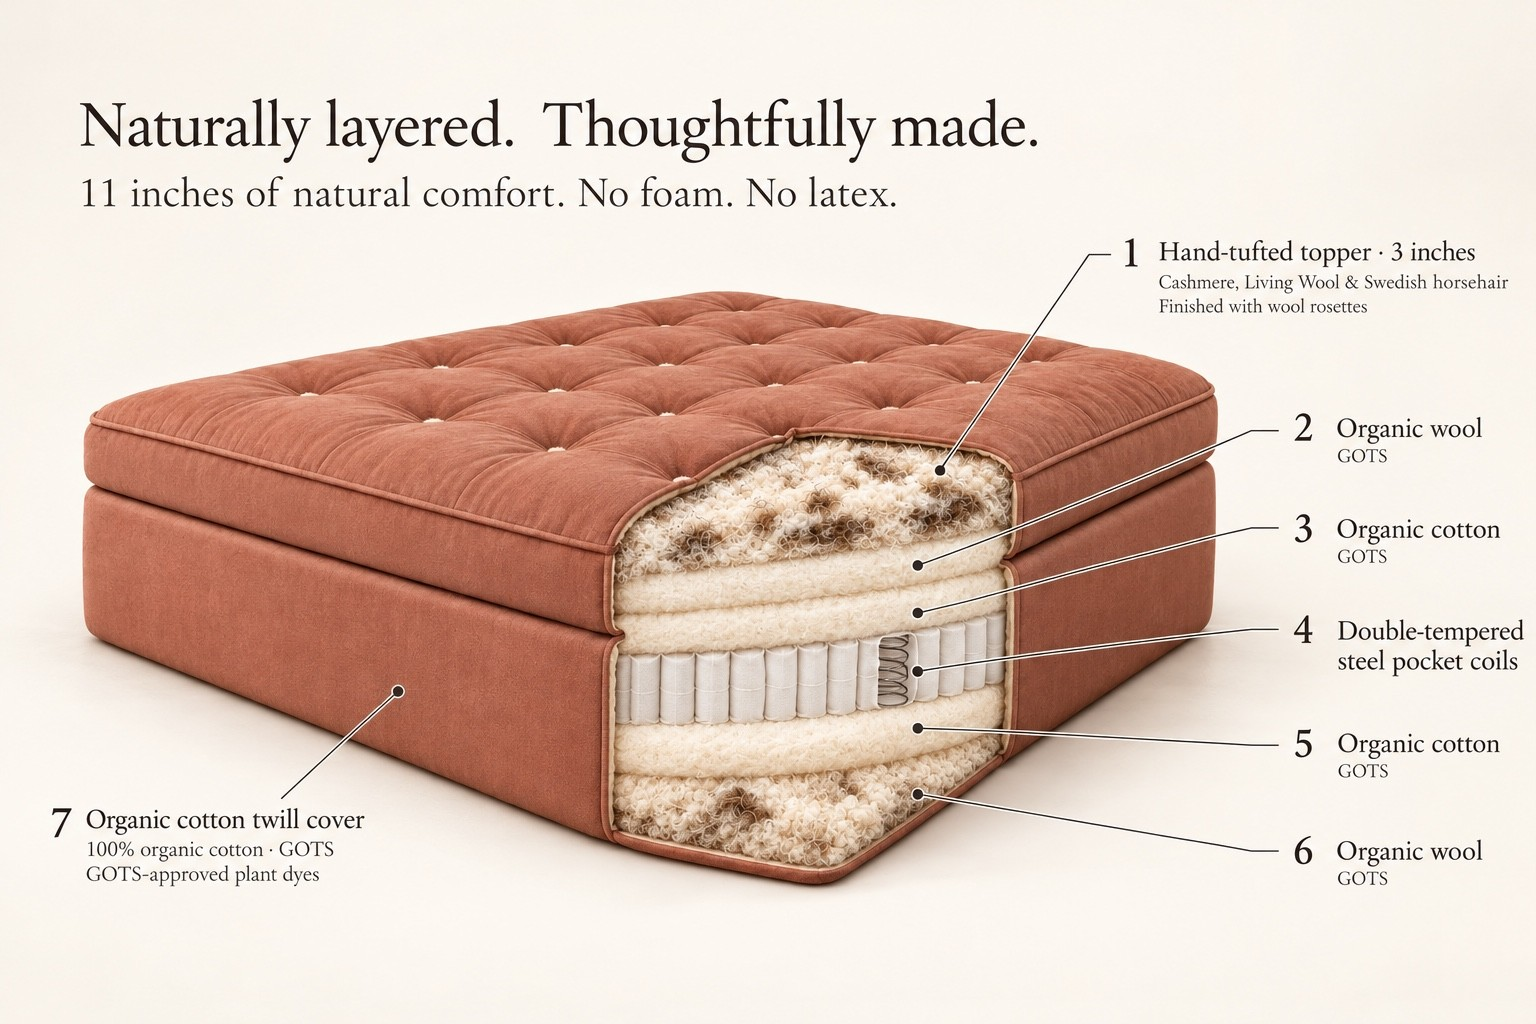
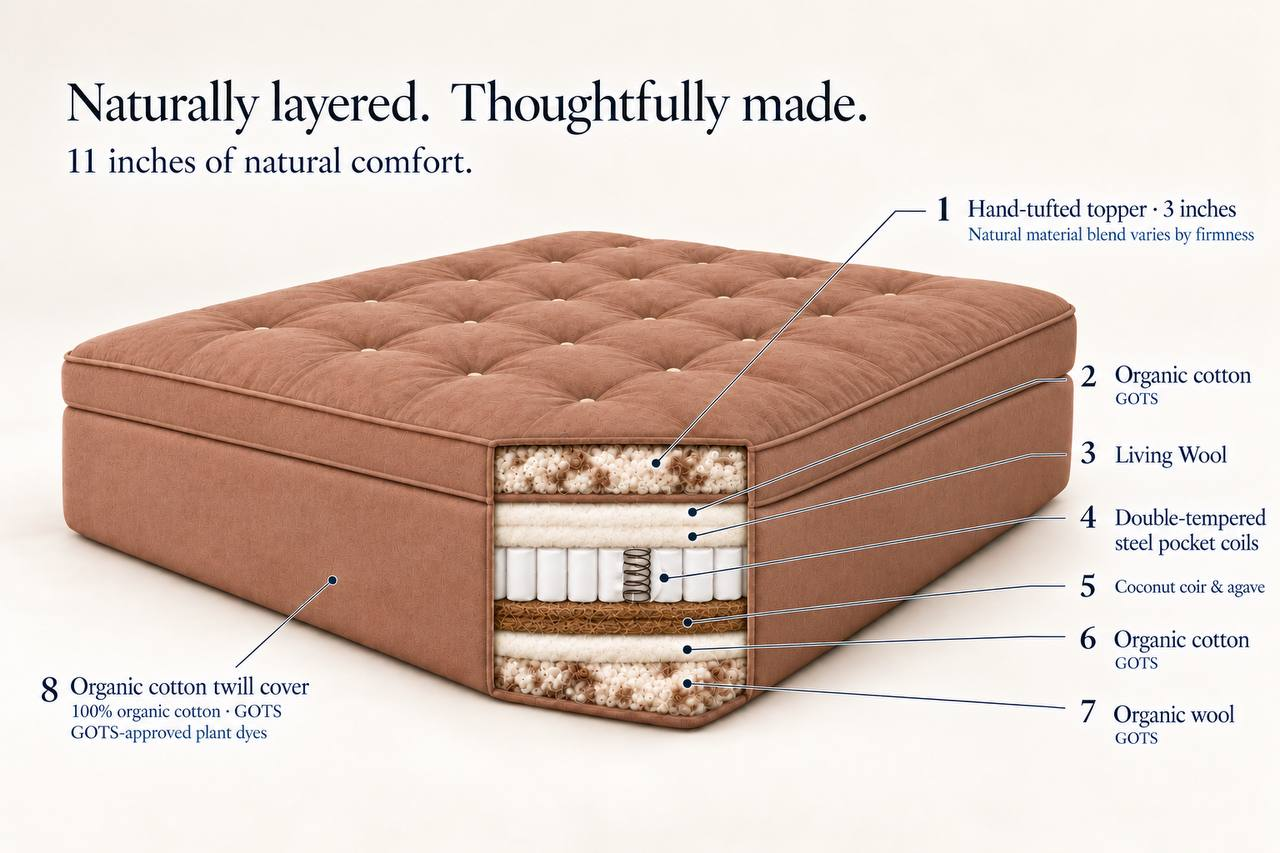
Mattress: coconut coir & agave base layer (layer list, materials entry, new stacked + Sorrel labelled cutaways, feed, assistant) (#128)

diff --git a/lib/mattress.ts b/lib/mattress.ts
@@ -12,7 +12,7 @@ export const GUARANTEE_PATH = "/pages/guarantee-warranty";
 
 export type MattressSize = { id: string; label: string; dims: string; price: number };
 /** photos: this color's own shots, first one leading the gallery (and shown on the home page feature); then its cutaway. */
-export type MattressColor = { id: string; label: string; swatch: PhotoKey; photos: PhotoKey[]; cutaway: PhotoKey; /** The cutaway with numbered layers and a legend, shown in the gallery. */ layers: PhotoKey; alt: string };
+export type MattressColor = { id: string; label: string; swatch: PhotoKey; photos: PhotoKey[]; cutaway: PhotoKey; /** The cutaway with numbered layers and a legend, shown in the gallery. */ layers?: PhotoKey; alt: string };
 
 export const MATTRESS = {
   id: "natural-mattress",
@@ -49,11 +49,11 @@ export const MATTRESS = {
    * change); labels are the current names. File names still use the old names (mocha, safari, dove, khaki, natural).
    */
   colors: [
-    { id: "natural", label: "Fleece", swatch: "mattress-swatch-natural", photos: ["mattress-room-fleece", "mattress-studio-natural"], cutaway: "mattress-cutaway-fleece", layers: "mattress-layers-fleece", alt: "The Ashbury in Fleece" },
-    { id: "dove", label: "Flint", swatch: "mattress-swatch-dove", photos: ["mattress-room-flint", "mattress-studio-dove"], cutaway: "mattress-cutaway-flint", layers: "mattress-layers-flint", alt: "The Ashbury in Flint" },
-    { id: "khaki", label: "Moss", swatch: "mattress-swatch-khaki", photos: ["mattress-room-moss", "mattress-studio-khaki"], cutaway: "mattress-cutaway-moss", layers: "mattress-layers-moss", alt: "The Ashbury in Moss" },
+    { id: "natural", label: "Fleece", swatch: "mattress-swatch-natural", photos: ["mattress-room-fleece", "mattress-studio-natural"], cutaway: "mattress-cutaway-fleece", alt: "The Ashbury in Fleece" },
+    { id: "dove", label: "Flint", swatch: "mattress-swatch-dove", photos: ["mattress-room-flint", "mattress-studio-dove"], cutaway: "mattress-cutaway-flint", alt: "The Ashbury in Flint" },
+    { id: "khaki", label: "Moss", swatch: "mattress-swatch-khaki", photos: ["mattress-room-moss", "mattress-studio-khaki"], cutaway: "mattress-cutaway-moss", alt: "The Ashbury in Moss" },
     // Was "Hazel" (and before that "Safari"); the brown Hazel photos are kept, unused.
-    { id: "safari", label: "Flax", swatch: "mattress-swatch-safari", photos: ["mattress-room-flax", "mattress-studio-safari", "mattress-safari-room"], cutaway: "mattress-cutaway-flax", layers: "mattress-layers-flax", alt: "The Ashbury in Flax" },
+    { id: "safari", label: "Flax", swatch: "mattress-swatch-safari", photos: ["mattress-room-flax", "mattress-studio-safari", "mattress-safari-room"], cutaway: "mattress-cutaway-flax", alt: "The Ashbury in Flax" },
     { id: "mocha", label: "Sorrel", swatch: "mattress-swatch-mocha", photos: ["mattress-room-sorrel", "mattress-studio-mocha", "mattress-mocha-room"], cutaway: "mattress-cutaway", layers: "mattress-layers-sorrel", alt: "The Ashbury in Sorrel" },
   ] satisfies MattressColor[],
   /** Color selected when the page opens (its first photo leads the gallery and the social preview). */

diff --git a/lib/materials.ts b/lib/materials.ts
@@ -139,18 +139,26 @@ export const ASHBURY_GROUPS: MaterialGroup[] = [
     materials: [
       {
         id: "organic-cotton", short: "Organic Cotton", name: "Organic cotton", descriptor: "Breathable at every layer.",
-        body: "Our cotton is GOTS-certified organic, grown without synthetic pesticides or fertilizers. Woven into a super soft 100% organic cotton twill and colored with GOTS-approved plant dyes, it covers the entire mattress. Inside, it wraps the pocket coils on both sides, keeping the layers quiet and letting the whole mattress breathe.",
-        where: "The cover, in five plant-dyed colors, and around the coils.",
+        body: "Our cotton is GOTS-certified organic, grown without synthetic pesticides or fertilizers. Woven into a super soft 100% organic cotton twill and colored with GOTS-approved plant dyes, it covers the entire mattress. Inside, it layers above and below the pocket coils, keeping the layers quiet and letting the whole mattress breathe.",
+        where: "The cover, in five plant-dyed colors, and in the layers above and below the coils.",
         origin: "GOTS-certified organic · OEKO-TEX Standard 100",
         photo: "materials-cotton-rosette",
         alt: "Cream cotton twill with a hand-tied wool rosette",
       },
       {
         id: "pocket-coils", short: "Pocket Coils", name: "Pocket coils", descriptor: "Support that moves with you.",
-        body: "At the center of the Ashbury, double-tempered steel pocket coils are each wrapped individually, so every coil responds on its own as you move. They're cushioned on both sides by organic cotton and organic wool, so you feel the support, never the steel.",
+        body: "At the center of the Ashbury, double-tempered steel pocket coils are each wrapped individually, so every coil responds on its own as you move. They sit beneath layers of organic cotton and Living Wool, and above a base of coconut coir and agave, so you feel the support, never the steel.",
         where: "The core of the 8\" mattress.",
         photo: "materials-pocket-coils",
         alt: "A bare steel coil and cotton-wrapped pocket coils on stone steps above a cutaway of the Ashbury",
+      },
+      {
+        id: "coir-agave", short: "Coir & Agave", name: "Coconut coir & agave", descriptor: "The base that holds you up.",
+        body: "Beneath the pocket coils sits a base of coconut coir and agave fiber, in every size and both feels. Coir, from the husk of the coconut, is firm, springy and breathable. Agave, from the leaves of a hardy desert plant that grows with very little water, is a tough, durable fiber that helps with temperature control and breathability. Together they give the Ashbury steady support from below, in place of foam.",
+        where: "The base layer, under the pocket coils.",
+        origin: "OEKO-TEX Standard 100",
+        photo: "fiber-agave",
+        alt: "Long, pale golden agave fiber on linen and travertine",
       },
     ],
   },

diff --git a/lib/assistant-knowledge.ts b/lib/assistant-knowledge.ts
@@ -57,7 +57,7 @@ ${M.sizes.map((s) => `- ${s.label}: ${s.dims}, ${fmt(s.price)}`).join("\n")}
 ${M.customSize}
 Feels (same price): Soft, a deeper, more cushioned top for side sleepers and anyone who likes to sink in. Firm, more supportive and even, for back and stomach sleepers. Both share the same materials and construction.
 Colors (same price): ${M.colors.map((c) => c.label).join(", ")}. The cover is super soft 100% organic cotton twill (GOTS) colored with GOTS-approved plant dyes.
-Construction. Topper (${M.topperHeight}): cashmere (OEKO-TEX Standard 100), Living Wool (GOTS, OEKO-TEX), Swedish horsehair (OEKO-TEX), hand-tufted with wool rosettes. Mattress (${M.mattressHeight}): organic wool, organic cotton, double-tempered steel pocket coils, organic cotton, organic wool. No foam, no latex, no chemical flame retardants and no glue. Single-sided.
+Construction. Topper (${M.topperHeight}): cashmere (OEKO-TEX Standard 100), Living Wool (GOTS, OEKO-TEX), Swedish horsehair (OEKO-TEX), hand-tufted with wool rosettes. Mattress (${M.mattressHeight}), top to bottom: organic cotton, Living Wool, double-tempered steel pocket coils, a base of coconut coir and agave (in every size and feel; agave helps with temperature control and breathability), organic cotton, organic wool. No foam, no latex, no chemical flame retardants and no glue. Single-sided.
 Certifications: GOTS-certified organic wool and cotton, made by a GOTS-certified manufacturer (${M.gotsManufacturer}). OEKO-TEX Standard 100. Meets US federal mattress flammability standards without chemical flame retardants; wool provides the natural barrier.
 Ordering: ${M.leadTime} ${M.shipping} White-glove delivery is available for an additional fee. Every mattress arrives wrapped in biodegradable paper. Pay in full at checkout, or over time with Shop Pay Installments (subject to approval).
 Foundation: needs a firm, flat base that lets it breathe: a solid platform, or slats no more than 3" apart. For Queen, King and Cal King, a base with a center support rail and legs. A rigid foundation (no springs) or an adjustable base also works. Avoid old box springs and placing it on the floor for long periods. A supportive base is a condition of the warranty.

diff --git a/components/mattress.tsx b/components/mattress.tsx
@@ -27,6 +27,7 @@ export function Accordion({ items }: { items: [string, React.ReactNode][] }) {
 // The topper holds the hand-tufted comfort layers; the cotton twill cover wraps the whole mattress.
 // Each layer links to its entry on Inside the Ashbury (lib/materials.ts ASHBURY_GROUPS, ids are the anchors).
 // The core's organic wool has no entry of its own, so it goes to the wool entry, Living Wool.
+// Coconut coir and agave form the supportive base under the coils, in every size and feel.
 const TOPPER: [string, string][] = [
   ["Cashmere (OEKO-TEX Standard 100)", "cashmere"],
   ["Living Wool (GOTS, OEKO-TEX)", "living-wool"],
@@ -34,9 +35,10 @@ const TOPPER: [string, string][] = [
   ["Hand-tufted with wool rosettes", "hand-tufting"],
 ];
 const CORE: [string, string][] = [
-  ["Organic wool (GOTS)", "living-wool"],
   ["Organic cotton (GOTS)", "organic-cotton"],
+  ["Living Wool (GOTS)", "living-wool"],
   ["Double-tempered steel pocket coils", "pocket-coils"],
+  ["Coconut coir & agave (OEKO-TEX Standard 100)", "coir-agave"],
   ["Organic cotton (GOTS)", "organic-cotton"],
   ["Organic wool (GOTS)", "living-wool"],
 ];
@@ -74,7 +76,7 @@ export function Construction() {
       <section className="sec">
         <div className="wrap proc">
           <div className="proc-v">
-            <Photo src="mattress-layers" label="The Ashbury's layers stacked: the tufted topper folded back over wool and horsehair, then wool, pocket coils, wool and the cotton twill base" sizes="(max-width: 960px) 100vw, 50vw" />
+            <Photo src="mattress-layers" label="The Ashbury's layers stacked: the tufted topper folded back over wool and horsehair, then cotton, Living Wool, pocket coils, a base of coconut coir and agave, cotton, wool and the cotton twill base" sizes="(max-width: 960px) 100vw, 50vw" />
           </div>
           <div className="proc-t">
             <div className="eyebrow">Construction</div>

diff --git a/lib/mattress-feed.ts b/lib/mattress-feed.ts
@@ -9,7 +9,7 @@ export const photoUrl = (key: PhotoKey) => abs(PHOTOS[key].src);
 
 export const MATTRESS_TITLE = "The Ashbury Organic Mattress";
 export const MATTRESS_DESCRIPTION =
-  "A natural, organic mattress handmade to order in the USA from Living Wool (GOTS-certified organic wool), Swedish horsehair and GOTS-certified organic cotton over double-tempered steel pocket coils, with a 3\" cashmere topper included. No foam, no latex, no glue, no chemical flame retardants. Hand-tufted with wool rosettes, in five colors. OEKO-TEX Standard 100. 100-night guarantee (30-night minimum), lifetime limited warranty, delivery included.";
+  "A natural, organic mattress handmade to order in the USA from Living Wool (GOTS-certified organic wool), Swedish horsehair and GOTS-certified organic cotton over double-tempered steel pocket coils and a base of coconut coir and agave, with a 3\" cashmere topper included. No foam, no latex, no glue, no chemical flame retardants. Hand-tufted with wool rosettes, in five colors. OEKO-TEX Standard 100. 100-night guarantee (30-night minimum), lifetime limited warranty, delivery included.";
 
 /** One row per size and color, matching the Shopify variants. */
 export function mattressItems() {

diff --git a/app/products/luxury-organic-mattress/page.tsx b/app/products/luxury-organic-mattress/page.tsx
@@ -35,7 +35,8 @@ export const metadata: Metadata = {
 const MATERIALS: [string, string][] = [
   ["Living Wool", "GOTS-certified organic wool from Lanas Trinidad in Uruguay, OEKO-TEX Standard 100. Keeps an even temperature and a dry surface, and gives buoyant support that springs back."],
   ["Swedish horsehair", "OEKO-TEX certified. From tail clippings; no horse is harmed. Each curled strand acts like a small spring, letting air move through the layers."],
-  ["Organic cotton", "GOTS-certified and OEKO-TEX Standard 100. A super soft 100% organic cotton twill, plant-dyed, covers the entire mattress, and inside it wraps the coils on both sides."],
+  ["Organic cotton", "GOTS-certified and OEKO-TEX Standard 100. A super soft 100% organic cotton twill, plant-dyed, covers the entire mattress, and inside it layers above and below the coils."],
+  ["Coconut coir & agave", "OEKO-TEX Standard 100. A base under the pocket coils for steady support, in every size and feel. Agave helps with temperature control and breathability."],
 ];
 
 function productJsonLd() {

diff --git a/app/pages/inside-the-ashbury/page.tsx b/app/pages/inside-the-ashbury/page.tsx
@@ -70,7 +70,7 @@ export default function InsideTheAshburyPage() {
       <section className="sec">
         <div className="wrap proc">
           <div className="proc-v">
-            <Photo src="mattress-layers" label="The Ashbury's layers stacked: the tufted topper folded back over wool and horsehair, then wool, pocket coils, wool and the cotton twill base" sizes={HALF} />
+            <Photo src="mattress-layers" label="The Ashbury's layers stacked: the tufted topper folded back over wool and horsehair, then cotton, Living Wool, pocket coils, a base of coconut coir and agave, cotton, wool and the cotton twill base" sizes={HALF} />
           </div>
           <div className="proc-t">
             <h2 className="proc-h">Eleven inches, layer by layer.</h2>

diff --git a/components/mattress-view.tsx b/components/mattress-view.tsx
@@ -38,7 +38,7 @@ export function MattressView({ initialColor }: { initialColor?: string }) {
   // The color's own shots, then the five-color lineup and the construction.
   const gallery: { photo: PhotoKey; alt: string }[] = [
     ...sel.photos.map((photo) => ({ photo, alt: sel.alt })),
-    { photo: sel.layers, alt: `${sel.alt}: the layers inside, numbered from the topper to the cover` },
+    ...(sel.layers ? [{ photo: sel.layers, alt: `${sel.alt}: the layers inside, numbered from the topper to the cover` }] : []),
   ];
   // Horizontal swipe on the main image steps through the gallery on touch screens.
   const swipeX = useRef<number | null>(null);
